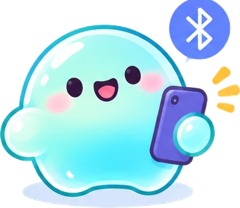
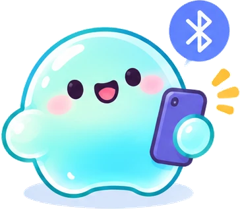
Recut bluetooth and question tops; People note under People
Bluetooth bubble and question mark were clipped at the top; recut with
room above, keeping only shapes centred in each sticker's own square.
Settings: the per-mode People note now sits under the people list, not
below Appearance (test peopleNoteSitsAboveAppearance). Plan: no wave
sticker beside Appearance.

diff --git a/app/src/main/java/app/bloblog/SettingsActivity.kt b/app/src/main/java/app/bloblog/SettingsActivity.kt
@@ -49,14 +49,15 @@ class SettingsActivity : ComponentActivity() {
             gravity = Gravity.CENTER; fill(R.attr.bl_select, 20, inset = true)
             setOnClickListener { editPerson(null) }
         }, LinearLayout.LayoutParams(-1, dp(48)).apply { topMargin = dp(12) })
+        // The per-mode note explains the People section, so it sits under the people list.
+        col.addView(text(if (mode == PeopleMode.SOLO) "Weigh-ins far from your weight are held back and ask “Whose?”, so guests and bags never reach Health Connect."
+            else "Weigh-ins are matched to the closest person. Only the person marked (Me) is sent to Health Connect.", 12f, R.attr.bl_textMuted), lp(top = 12))
 
         col.addView(text("Appearance", 16f, R.attr.bl_text, bold = true), lp(top = 32))
         val current = ThemePrefs.get(this)
         for ((t, desc) in listOf(AppTheme.COLOURFUL to "Blob colours and a soft gradient", AppTheme.CALM to "Neutral greys with soft blob colours", AppTheme.DARK to "Easy on the eyes at night")) {
             col.addView(themeRow(t, desc, t == current))
         }
-        col.addView(text(if (mode == PeopleMode.SOLO) "Weigh-ins far from your weight are held back and ask “Whose?”, so guests and bags never reach Health Connect."
-            else "Weigh-ins are matched to the closest person. Only the person marked (Me) is sent to Health Connect.", 12f, R.attr.bl_textMuted), lp(top = 12))
     }
 
     private fun modeControl(mode: PeopleMode, db: Db) = LinearLayout(this).apply {

diff --git a/app/src/test/java/app/bloblog/SettingsTest.kt b/app/src/test/java/app/bloblog/SettingsTest.kt
@@ -78,4 +78,12 @@ class SettingsTest {
             assertEquals(AppTheme.DARK, it.createdTheme)
         }
     }
+
+    @Test fun peopleNoteSitsAboveAppearance() {
+        Db(context).addPerson("Julia", 6500, true)
+        val all = views(root(settings()))
+        val note = all.indexOfFirst { (it as? TextView)?.text?.startsWith("Weigh-ins far from your weight") == true }
+        val appearance = all.indexOfFirst { (it as? TextView)?.text?.toString() == "Appearance" }
+        assert(note in 0 until appearance) { "note at $note, Appearance at $appearance" }
+    }
 }

diff --git a/docs/plans/2026-11-26-blob-csv-years.md b/docs/plans/2026-11-26-blob-csv-years.md
@@ -1,0 +1,36 @@
+# More blob, CSV download, year dividers: Implementation Plan
+
+> Project rule (CLAUDE.md): Sonnet implements, Opus reviews each diff and runs the checks, then commits. Implementers don't commit.
+
+**Goal:** add four blob moments, a CSV download of all weigh-ins in Settings, and year dividers in the History month chips.
+
+**Spec:** this plan pins the owner's decisions of 2026-11-26 (Q46–Q49). Base spec: [docs/superpowers/specs/2026-11-26-readings-screen-design.md](../superpowers/specs/2026-11-26-readings-screen-design.md). Tokens: [DESIGN.md](../../DESIGN.md). **Blob never reacts to weight going up or down.** Stickers only mark empty states, actions and milestones.
+
+## Global Constraints
+- Every shell: `export JAVA_HOME=/opt/homebrew/opt/openjdk@17/libexec/openjdk.jdk/Contents/Home`. Full check: `./gradlew :app:testDebugUnitTest :app:assembleDebug :app:assembleRelease :app:lintDebug`, all green, with 0 lint errors.
+- Colours via theme attributes only. Sticker sizes: 24 in rows, 28 in the strip, 32 beside headings, 36 in messages, 48 in empty states, 56 in dialogs.
+- No new permissions and no new dependencies.
+
+### Task A: Blob moments
+**Files:** `TrendChartView.kt`, `HomeAdapter.kt`, `RowActions.kt`, `SettingsActivity.kt`, `MainActivity.kt` (live update), tests in `HomeTest`, `RowActionsTest`, `LiveUpdateTest`
+1. **Empty range** (not Day): a `search` sticker (48) centred above the existing text `No weigh-ins in this range`. Draw it in the graph's empty area, or as a view over the chart, whichever is smaller.
+2. **Day with no weigh-in today:** a `run` sticker (48) with the text `No weigh-in yet today` (12 sp, `bl_textMuted`), replacing the empty-range text on Day.
+3. **Delete confirmation:** a `peek` sticker (56) above the dialog title. The copy is unchanged.
+4. **First weigh-in:** when a live update brings a person's **first ever** assigned weigh-in, show the message with the `cheer` sticker: `Your first weigh-in!` for the `(Me)` person, `Sam Lee's first weigh-in!` for others (`<Name>'s first weigh-in!`), instead of `Saved …`.
+- **Not** a `wave` sticker beside `Appearance` (owner, 2026-11-26).
+- Tests: `emptyRangeShowsSearchSticker`, `dayWithoutTodayShowsRun` (text present), `deleteDialogHasPeek`, `firstWeighInMessage` (Me and other), `laterWeighInSavedMessage` (the second weigh-in still says `Saved 65.70 kg for Julia`).
+
+### Task B: CSV download
+**Files:** create `CsvExport.kt`; modify `SettingsActivity.kt`; test `CsvExportTest.kt`
+- `fun weighInsCsv(db: Db, zone: ZoneId): String`. Header: `date,time,weight_kg,person,in_health_connect`. One row per reading, **oldest first**, for everyone, including hidden and unassigned readings. `date` is `yyyy-MM-dd` and `time` is `HH:mm`, both local. `weight_kg` has 2 decimals with a `.` decimal point. `person` is the name (empty for unassigned). `in_health_connect` is `yes` or `no`. Names containing `,` `"` or a newline are quoted per RFC 4180. Lines end with `\n`.
+- Settings: a new last section **Data** (title 16 bold, with 32 above it). One 56-tall row: a `notebook` sticker (40), `Download weigh-ins (CSV)` (14), and the caption `Everyone's weigh-ins, one row each.` (12, muted). Tapping it launches `ActivityResultContracts.CreateDocument("text/csv")` with the name `blob-log-<yyyy-MM-dd>.csv`, then writes the string via `contentResolver.openOutputStream`. On success, show a message with the `notebook` sticker: `Saved blob-log-2026-11-26.csv`. On failure: `Couldn't save the file. Try again.`
+- Tests: `csvHeaderAndOrder`, `csvUnassignedAndHidden`, `csvQuotesNames` (`Stone, Julia` → `"Stone, Julia"`), `csvLocalTime` (Asia/Singapore).
+
+### Task C: Year dividers in the month chips
+**Files:** `HomeAdapter.kt`, `Trend.kt` (replace `monthChipLabels`), `TrendTest`, `HomeTest`
+- Chips show the month only (`Aug`). Before the first chip of each year, a year label (`2026`, 12 sp, `bl_textMuted`, 8 dp side margins). Between years, a 1 dp × 24 dp `bl_divider` hairline before the year label.
+- Replace `monthChipLabels(months)` with `fun monthChipGroups(months: List<YearMonth>): List<Pair<Int, List<YearMonth>>>` (year → its months, oldest first).
+- Tests: `monthGroupsAcrossYear` (`[2026-11, 2026-12, 2027-01]` → `[(2026, [Nov, Dec]), (2027, [Jan])]`), `chipsShowMonthOnly`.
+
+### Task D: Docs
+Update SPEC.md (screens: graph empty states, delete dialog sticker, first weigh-in message, Settings → Data, month chips) and DESIGN.md (the sticker table and sizes, the year divider). Bump `versionName` to `0.3.1` and `versionCode` to `4`.
